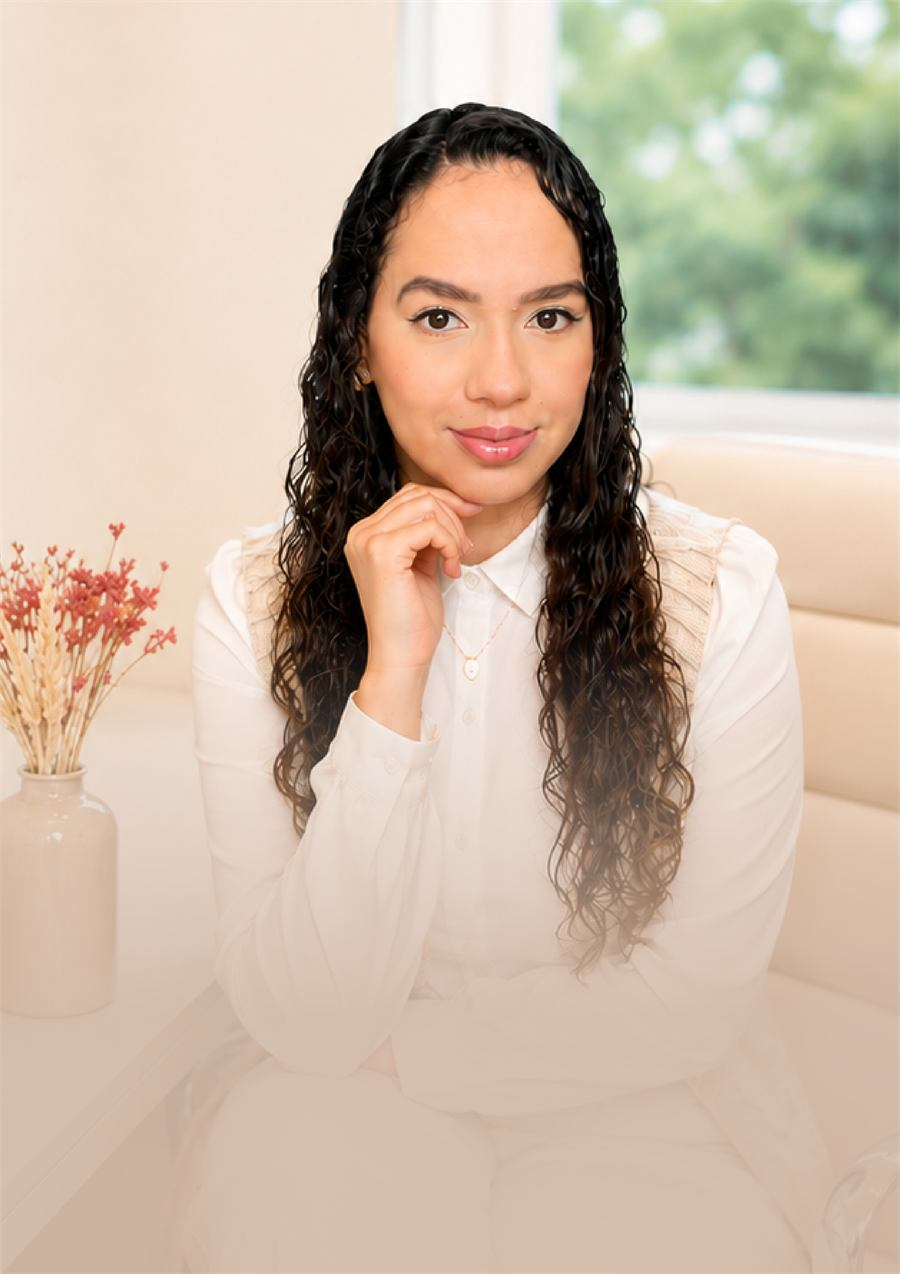
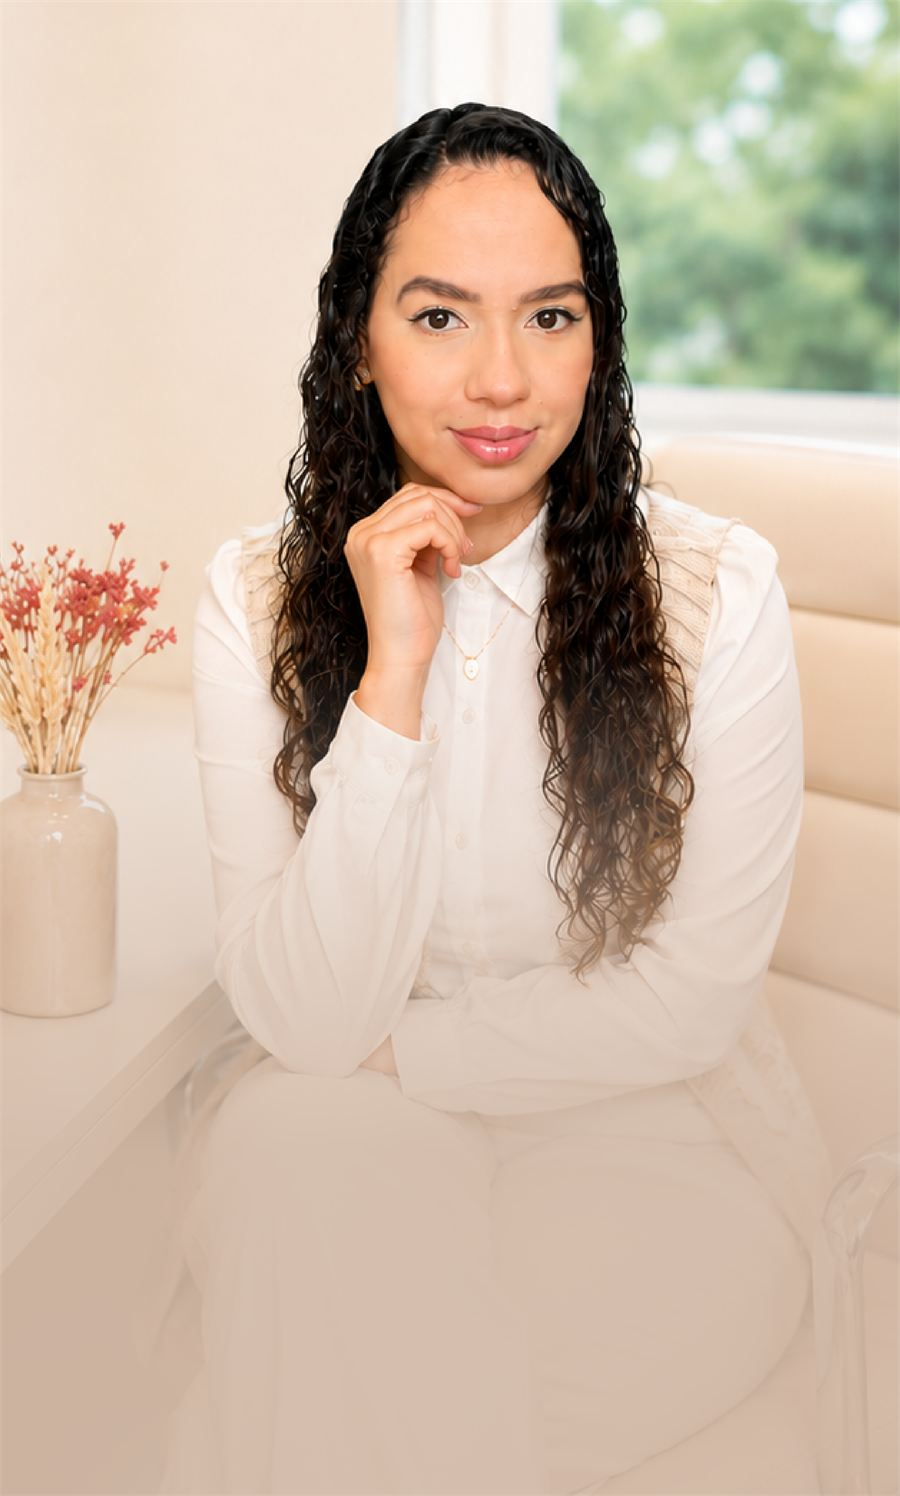
Hero mobile: texto sobreposto ao degradê da nova foto vertical

diff --git a/index.html b/index.html
@@ -119,16 +119,14 @@
   .hero-content{ position:relative; z-index:2; width:100%; padding: 150px 0 90px; }
 
   @media(max-width:760px){
-    .hero{ display:block; min-height:0; }
-    .hero-media-full{ position:relative; inset:auto; aspect-ratio:1/1; margin-top:112px; }
+    .hero{ align-items:flex-end; }
     .hero-media-full .banner-desktop{ display:none; }
-    .hero-media-full .banner-mobile{ display:block; object-position:50% 0%; }
-    .hero-overlay{ display:none; }
-    .hero-content{ padding:28px 0 56px; }
-    .scroll-cue{ display:none; }
-  }
-  @media(max-width:420px){
-    .hero-media-full{ margin-top:92px; }
+    .hero-media-full .banner-mobile{ display:block; object-position:50% 12%; }
+    .hero-overlay{
+      background: linear-gradient(180deg, rgba(251,243,234,0) 0%, rgba(251,243,234,0) 52%, rgba(251,243,234,0.5) 68%, rgba(251,243,234,0.92) 84%, rgba(251,243,234,0.98) 100%);
+    }
+    .hero-overlay::after{ display:none; }
+    .hero-content{ padding:0 0 56px; }
   }
   .hero-copy{ max-width:560px; }
   .hero-copy h1{ font-size: clamp(34px,5.2vw,58px); line-height:1.12; margin:0 0 22px; }
